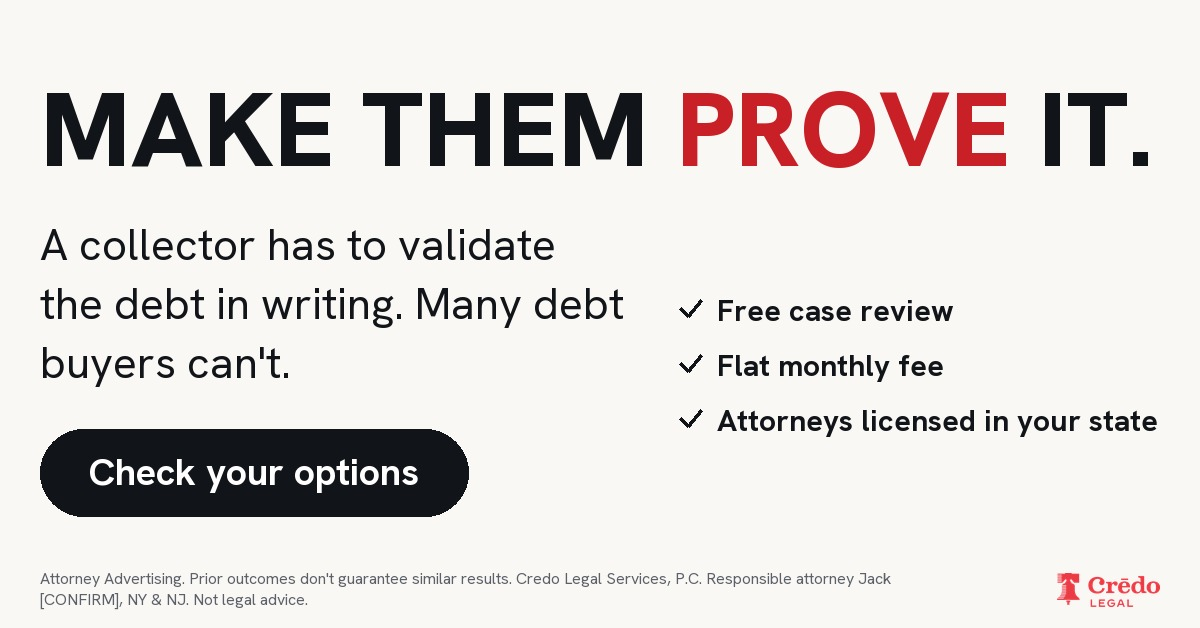
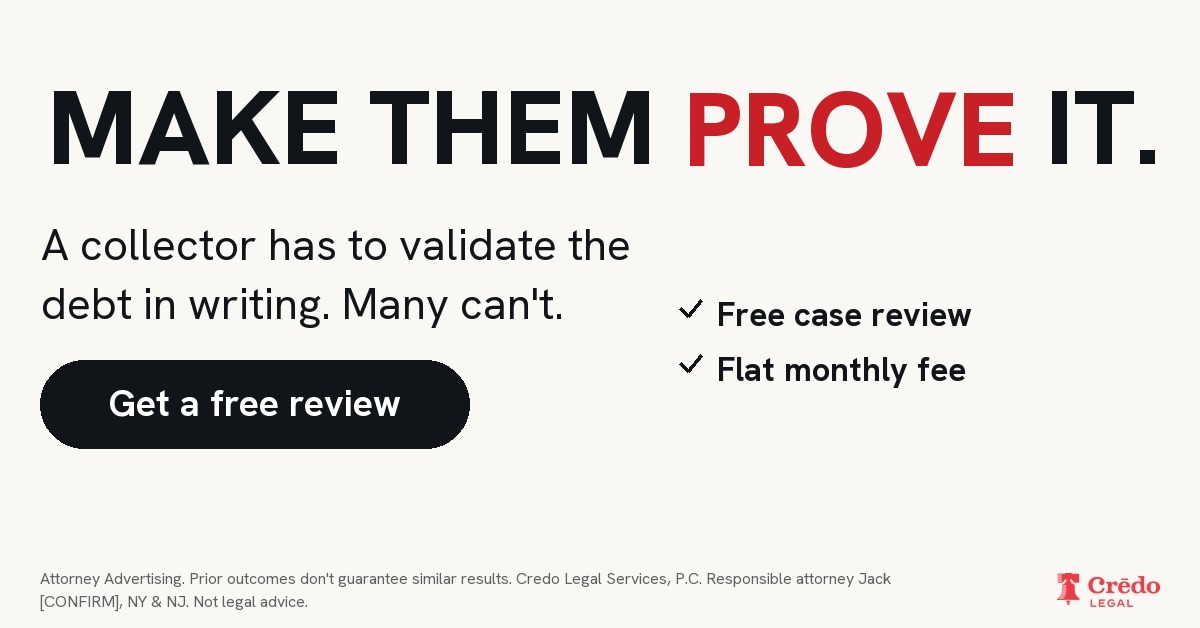
Sync from credo-private/public/meta-ads-preview/ @ dcb8895

diff --git a/handoff/meta-competitive-v1/README.md b/handoff/meta-competitive-v1/README.md
@@ -127,6 +127,13 @@ package (they remain in git history at `a1f1ca6`). The review page is now organi
 No static is in the upload set yet: `campaign-manifest.json` `ads[].creatives` now lists the
 videos only (plus the S1 light no-photo pair for A1) until a variant is picked per ad.
 
+## S1 light (no photo) — copy reduced (23 Sep 2026)
+
+Re-rendered with the same layout, type sizes, weights and colours (Hanken Grotesk, measured from the
+previous files) and less text: sub-line "A collector has to validate the debt in writing. Many can't.",
+checklist reduced to Free case review / Flat monthly fee, CTA "Get a free review". Headline and
+disclaimer unchanged. Renderer: `scripts/meta-ads/render-s1-light.py`. Previous version in git at `19bc3b5`.
+
 ## Review revisions — Sona, 22 Sep 2026
 
 Applied in this package:
